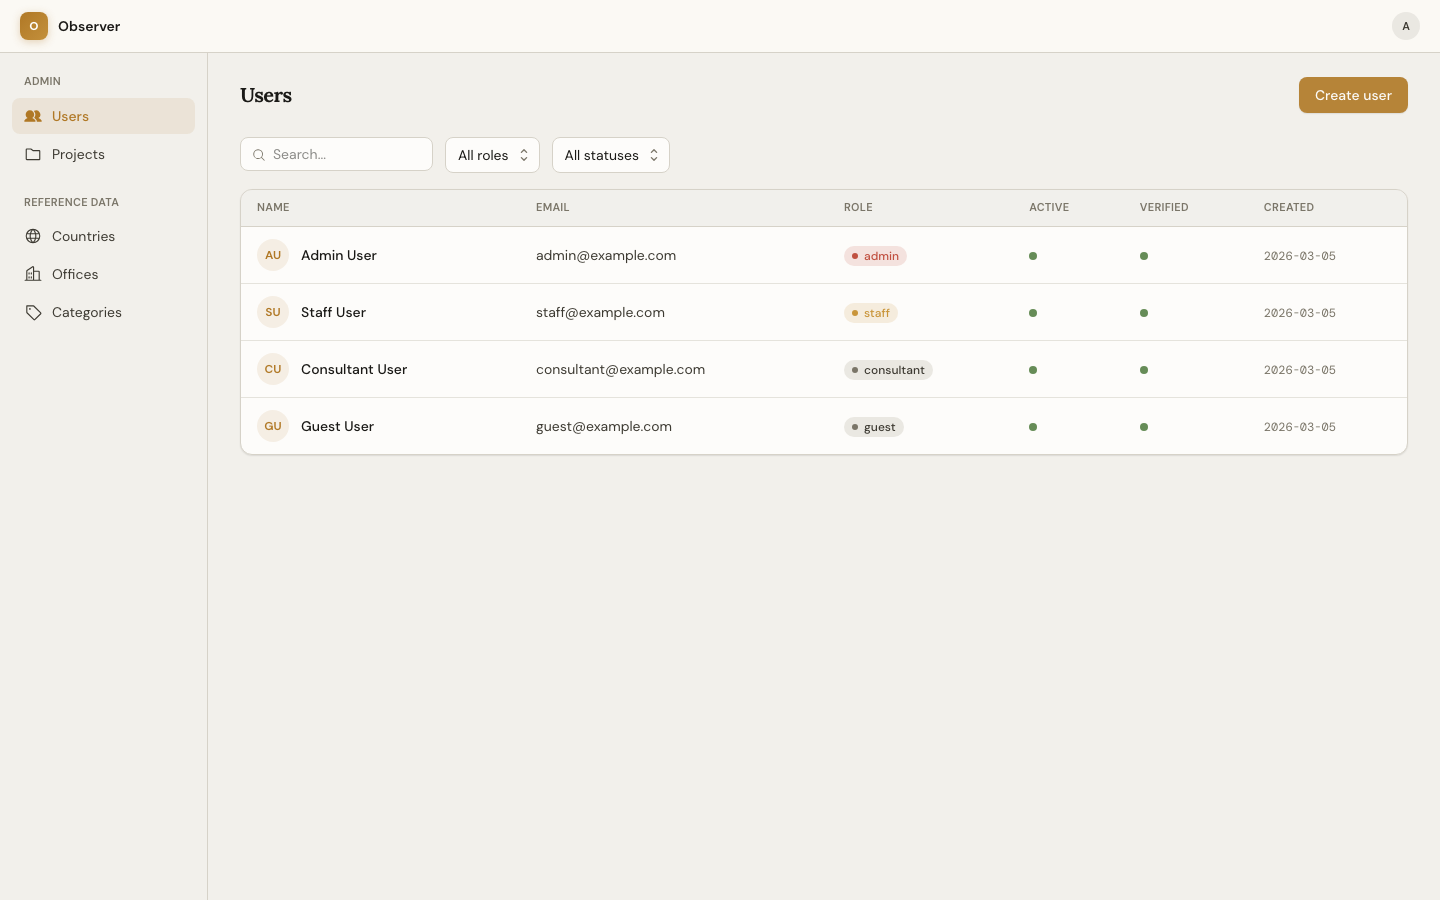
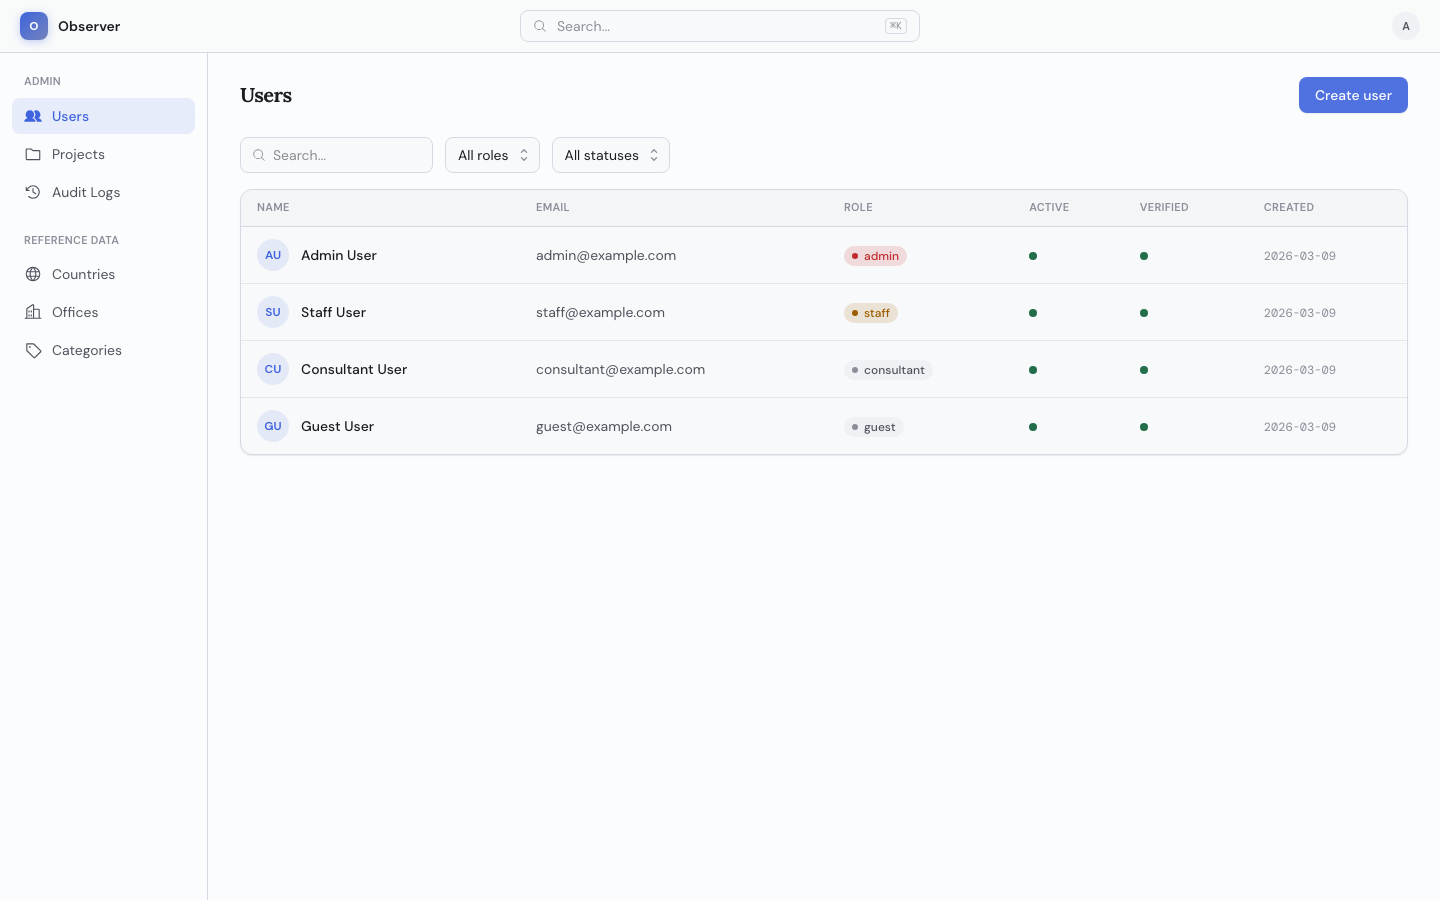
update screenshots

diff --git a/docs/screenshots/capture.ts b/docs/screenshots/capture.ts
@@ -1,16 +1,19 @@
-import { test, type Page } from "@playwright/test";
+import { test, type Page, type APIRequestContext } from "@playwright/test";
 import { copyFile, mkdir } from "node:fs/promises";
 import { join } from "node:path";
 
 const OUT = join(import.meta.dirname!, "out");
+const API = process.env.VITE_API_URL ?? "http://localhost:9000/api";
 
 type PageEntry = [name: string, path: string, setup?: (page: Page) => Promise<void>];
 
-const PROJECT = "01KJZDSG53QYEJ5JHD7YRHERV7";
-const USER = "01KJZDSG33GM2VRF33K8Y5JZ0M";
-const PERSON = "01KJZDSG5GHNTQQ1TA1GF5S6FP";
-const COUNTRY = "01KJZDSG16FR09T487RBEYZ9V7";
-const STATE = "01KJZDSG26VNJKETRQ3TGKR8A1";
+const PROJECT = "01KK9YYEFQ3WXR4E6H1D1YH9MX";
+const USER = "01KK9YYD3ZD1XJ70WV8SXHERZX";
+const COUNTRY = "01KK9YYD0XY4XBH890XF5ZQE9Y";
+const STATE = "01KK9YYD0ZFV5QGE4SG4FE0NZV";
+
+// Resolved in beforeAll by fetching the first real person in the project.
+let PERSON = "";
 
 const ACCOUNTS = [
   { role: "admin", email: "admin@example.com", password: "password" },
@@ -18,6 +21,77 @@ const ACCOUNTS = [
   { role: "consultant", email: "consultant@example.com", password: "password" },
   { role: "guest", email: "guest@example.com", password: "password" },
 ] as const;
+
+// Project roles to assign per platform role so screenshots show full UI.
+// guest is always read-only at the platform level regardless of project role.
+const PROJECT_ROLE: Partial<Record<(typeof ACCOUNTS)[number]["role"], string>> = {
+  admin: "owner",
+  staff: "manager",
+  consultant: "consultant",
+};
+
+async function ensurePermissions(request: APIRequestContext) {
+  const loginRes = await request.post(`${API}/auth/login`, {
+    data: { email: "admin@example.com", password: "password" },
+  });
+  const { tokens } = await loginRes.json();
+  const headers = { Authorization: `Bearer ${tokens.access_token}` };
+
+  const [usersRes, permsRes] = await Promise.all([
+    request.get(`${API}/admin/users`, { headers }),
+    request.get(`${API}/admin/projects/${PROJECT}/permissions`, { headers }),
+  ]);
+
+  const { users } = await usersRes.json();
+  const { permissions } = await permsRes.json();
+
+  const existingByUserId = new Map<string, { id: string }>(
+    permissions.map((p: { user_id: string; id: string }) => [p.user_id, p]),
+  );
+
+  for (const account of ACCOUNTS) {
+    const projectRole = PROJECT_ROLE[account.role];
+    if (!projectRole) continue;
+
+    const user = users.find((u: { email: string }) => u.email === account.email);
+    if (!user) continue;
+
+    const body = {
+      role: projectRole,
+      can_view_contact: true,
+      can_view_personal: true,
+      can_view_documents: true,
+      can_export: true,
+    };
+
+    const existing = existingByUserId.get(user.id);
+    if (existing) {
+      await request.patch(`${API}/admin/projects/${PROJECT}/permissions/${existing.id}`, {
+        data: body,
+        headers,
+      });
+    } else {
+      await request.post(`${API}/admin/projects/${PROJECT}/permissions`, {
+        data: { user_id: user.id, ...body },
+        headers,
+      });
+    }
+  }
+
+  // Resolve a real person ID so person sub-page screenshots aren't blank.
+  const peopleRes = await request.get(
+    `${API}/projects/${PROJECT}/people?page=1&per_page=1`,
+    { headers },
+  );
+  const { people } = await peopleRes.json();
+  if (people?.length) {
+    PERSON = people[0].id;
+  }
+}
+
+test.beforeAll(async ({ request }) => {
+  await ensurePermissions(request);
+});
 
 const PUBLIC_PAGES: PageEntry[] = [
   ["login", "/login"],
@@ -36,56 +110,62 @@ const ADMIN_PAGES: PageEntry[] = [
   ["admin-reference-country-state", `/admin/reference/countries/${COUNTRY}/states/${STATE}`],
   ["admin-reference-offices", "/admin/reference/offices"],
   ["admin-reference-categories", "/admin/reference/categories"],
+  ["admin-audit-logs", "/admin/audit-logs"],
 ];
 
-const APP_PAGES: PageEntry[] = [
-  ["dashboard", "/"],
-  ["profile", "/profile"],
-  ["project-people", `/projects/${PROJECT}/people`],
-  [
-    "project-people-drawer",
-    `/projects/${PROJECT}/people`,
-    (p) => openDrawer(p, /register person/i),
-  ],
-  ["project-person-detail", `/projects/${PROJECT}/people/${PERSON}`],
-  ["project-person-documents", `/projects/${PROJECT}/people/${PERSON}/documents`],
-  ["project-person-support-records", `/projects/${PROJECT}/people/${PERSON}/support-records`],
-  [
-    "project-person-support-records-drawer",
-    `/projects/${PROJECT}/people/${PERSON}/support-records`,
-    (p) => openDrawer(p, /new record/i),
-  ],
-  ["project-person-migration-records", `/projects/${PROJECT}/people/${PERSON}/migration-records`],
-  [
-    "project-person-migration-records-drawer",
-    `/projects/${PROJECT}/people/${PERSON}/migration-records`,
-    (p) => openDrawer(p, /^add$/i),
-  ],
-  ["project-person-notes", `/projects/${PROJECT}/people/${PERSON}/notes`],
-  ["project-person-stats", `/projects/${PROJECT}/people/${PERSON}/stats`],
-  ["project-documents", `/projects/${PROJECT}/documents`],
-  ["project-support-records", `/projects/${PROJECT}/support-records`],
-  [
-    "project-support-records-drawer",
-    `/projects/${PROJECT}/support-records`,
-    (p) => openDrawer(p, /new record/i),
-  ],
-  ["project-households", `/projects/${PROJECT}/households`],
-  [
-    "project-households-drawer",
-    `/projects/${PROJECT}/households`,
-    (p) => openDrawer(p, /new household/i),
-  ],
-  ["project-tags", `/projects/${PROJECT}/tags`],
-  ["project-tags-drawer", `/projects/${PROJECT}/tags`, (p) => openDrawer(p, /add tag/i)],
-  ["project-pets", `/projects/${PROJECT}/pets`],
-  ["project-pets-drawer", `/projects/${PROJECT}/pets`, (p) => openDrawer(p, /register pet/i)],
-  ["project-reports", `/projects/${PROJECT}/reports`],
-  ["project-my-stats", `/projects/${PROJECT}/my-stats`],
-];
+// Wait for all loading skeletons to clear, catching slow API responses.
+const waitForData = async (page: Page) => {
+  await page.waitForLoadState("networkidle");
+  await page
+    .waitForFunction(() => document.querySelectorAll(".animate-pulse").length === 0, undefined, {
+      timeout: 10_000,
+    })
+    .catch(() => {});
+};
+
+function appPages(): PageEntry[] {
+  const p = PERSON;
+  return [
+    ["dashboard", "/"],
+    ["profile", "/profile"],
+    ["project-people", `/projects/${PROJECT}/people`],
+    ["project-people-drawer", `/projects/${PROJECT}/people`, (pg) => openDrawer(pg, /register person/i)],
+    ["project-person-detail", `/projects/${PROJECT}/people/${p}`, waitForData],
+    ["project-person-documents", `/projects/${PROJECT}/people/${p}/documents`, waitForData],
+    ["project-person-support-records", `/projects/${PROJECT}/people/${p}/support-records`, waitForData],
+    [
+      "project-person-support-records-drawer",
+      `/projects/${PROJECT}/people/${p}/support-records`,
+      async (pg) => { await waitForData(pg); await openDrawer(pg, /new record/i); },
+    ],
+    ["project-person-migration-records", `/projects/${PROJECT}/people/${p}/migration-records`, waitForData],
+    [
+      "project-person-migration-records-drawer",
+      `/projects/${PROJECT}/people/${p}/migration-records`,
+      async (pg) => { await waitForData(pg); await openDrawer(pg, /^add$/i); },
+    ],
+    ["project-person-notes", `/projects/${PROJECT}/people/${p}/notes`, waitForData],
+    ["project-person-stats", `/projects/${PROJECT}/people/${p}/stats`, waitForData],
+    ["project-support-records", `/projects/${PROJECT}/support-records`],
+    ["project-support-records-drawer", `/projects/${PROJECT}/support-records`, (pg) => openDrawer(pg, /new record/i)],
+    ["project-households", `/projects/${PROJECT}/households`],
+    ["project-households-drawer", `/projects/${PROJECT}/households`, (pg) => openDrawer(pg, /new household/i)],
+    ["project-tags", `/projects/${PROJECT}/tags`],
+    ["project-tags-drawer", `/projects/${PROJECT}/tags`, (pg) => openDrawer(pg, /add tag/i)],
+    ["project-pets", `/projects/${PROJECT}/pets`],
+    ["project-pets-drawer", `/projects/${PROJECT}/pets`, (pg) => openDrawer(pg, /register pet/i)],
+    ["project-reports-people", `/projects/${PROJECT}/reports/people`, waitForData],
+    ["project-reports-pets", `/projects/${PROJECT}/reports/pets`, waitForData],
+    ["project-reports-custom", `/projects/${PROJECT}/reports/custom`],
+    ["project-audit-logs", `/projects/${PROJECT}/audit-logs`],
+    ["project-my-stats", `/projects/${PROJECT}/my-stats`],
+  ];
+}
 
 async function openDrawer(page: Page, buttonText: RegExp) {
   const btn = page.getByRole("button", { name: buttonText });
+  const count = await btn.count();
+  if (count === 0) return;
   await btn.click();
   await page.waitForTimeout(500);
 }
@@ -139,7 +219,7 @@ for (const account of ACCOUNTS) {
     await setupPage(page);
     await login(page, account.email, account.password);
 
-    const pages = account.role === "admin" ? [...APP_PAGES, ...ADMIN_PAGES] : APP_PAGES;
+    const pages = account.role === "admin" ? [...appPages(), ...ADMIN_PAGES] : appPages();
 
     await capture(page, join(OUT, account.role), pages);
   });
@@ -164,7 +244,11 @@ const COPY_MAP: Record<string, string> = {
   "admin/project-households-drawer.png": "household-form.png",
   "admin/project-tags.png": "tags.png",
   "admin/project-pets.png": "pets.png",
-  "admin/project-reports.png": "reports.png",
+  "admin/project-reports-people.png": "reports.png",
+  "admin/project-reports-pets.png": "reports-pets.png",
+  "admin/project-reports-custom.png": "reports-custom.png",
+  "admin/project-audit-logs.png": "project-audit-logs.png",
+  "admin/admin-audit-logs.png": "admin-audit-logs.png",
   "admin/admin-users.png": "admin-users.png",
   "admin/admin-projects.png": "admin-projects.png",
   "admin/admin-project-permissions.png": "admin-permissions.png",

diff --git a/docs/screenshots/playwright.config.ts b/docs/screenshots/playwright.config.ts
@@ -3,7 +3,7 @@ import { defineConfig } from "@playwright/test";
 export default defineConfig({
   testDir: ".",
   testMatch: "capture.ts",
-  timeout: 120_000,
+  timeout: 300_000,
   use: {
     baseURL: "http://localhost:5173",
     viewport: { width: 1440, height: 900 },
